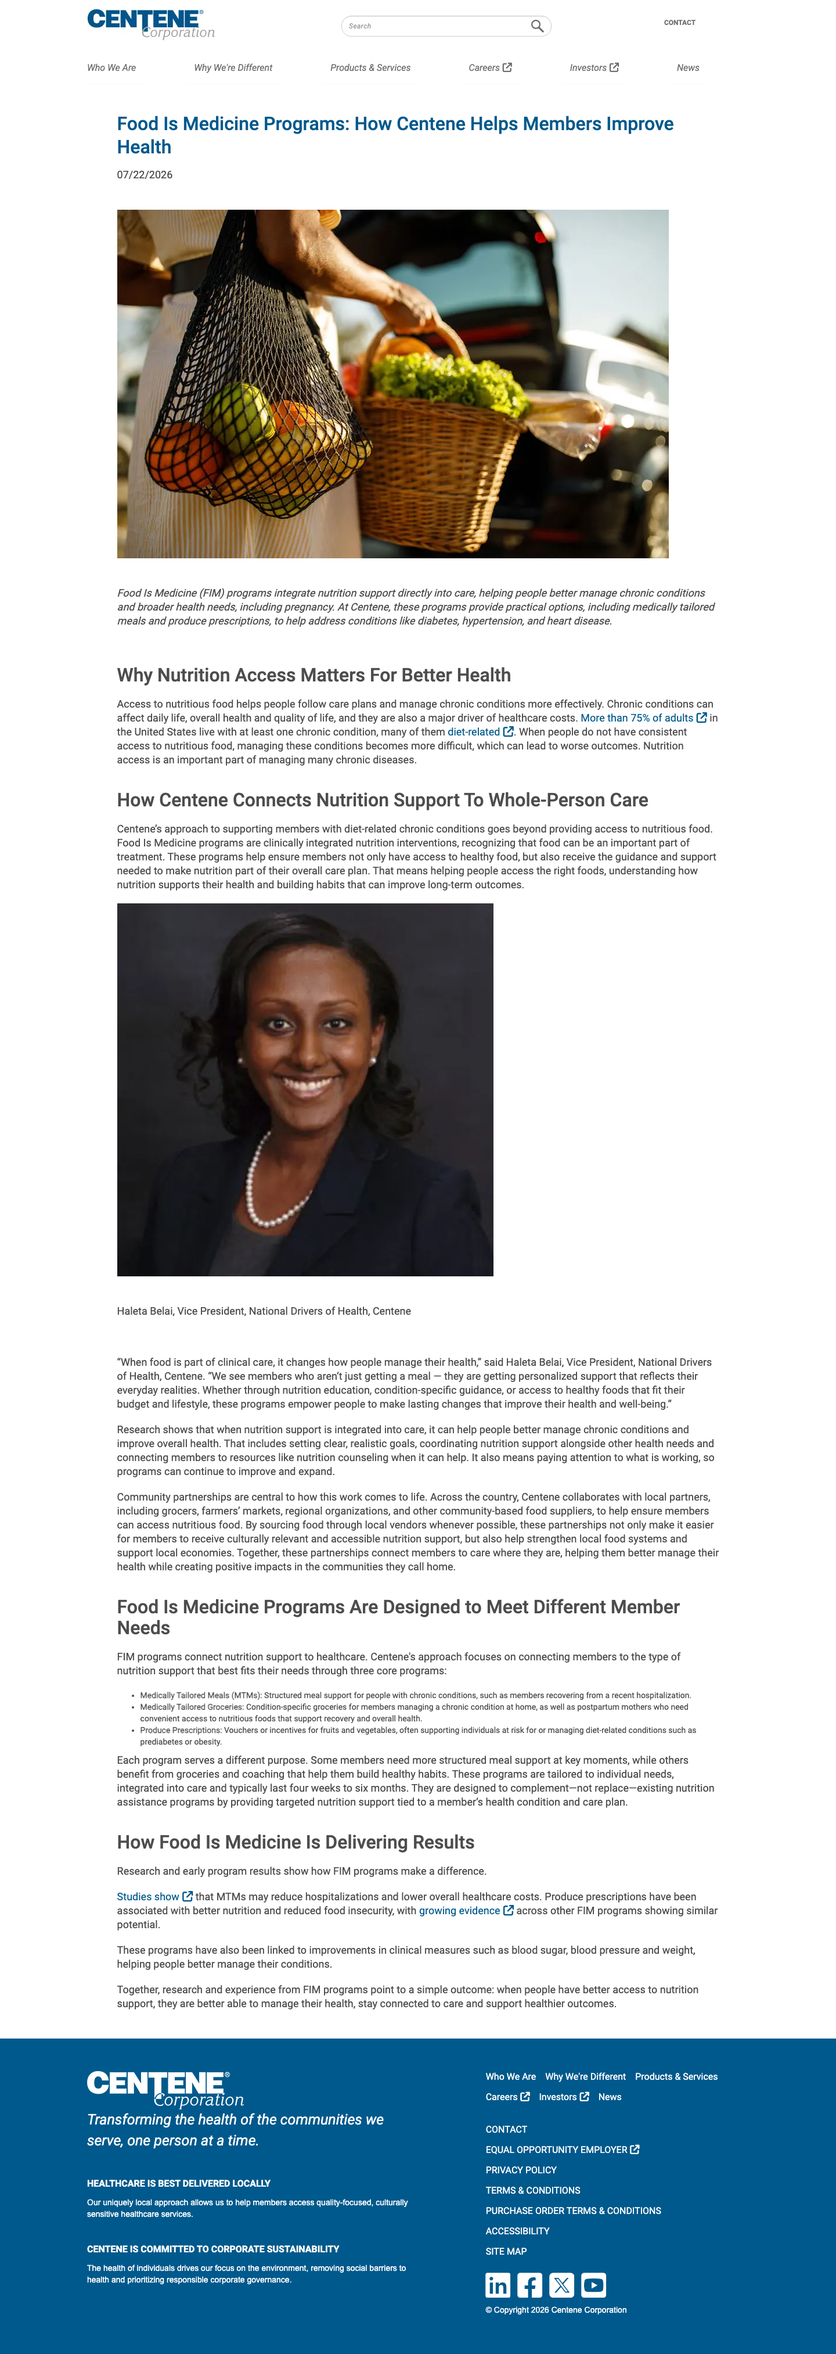
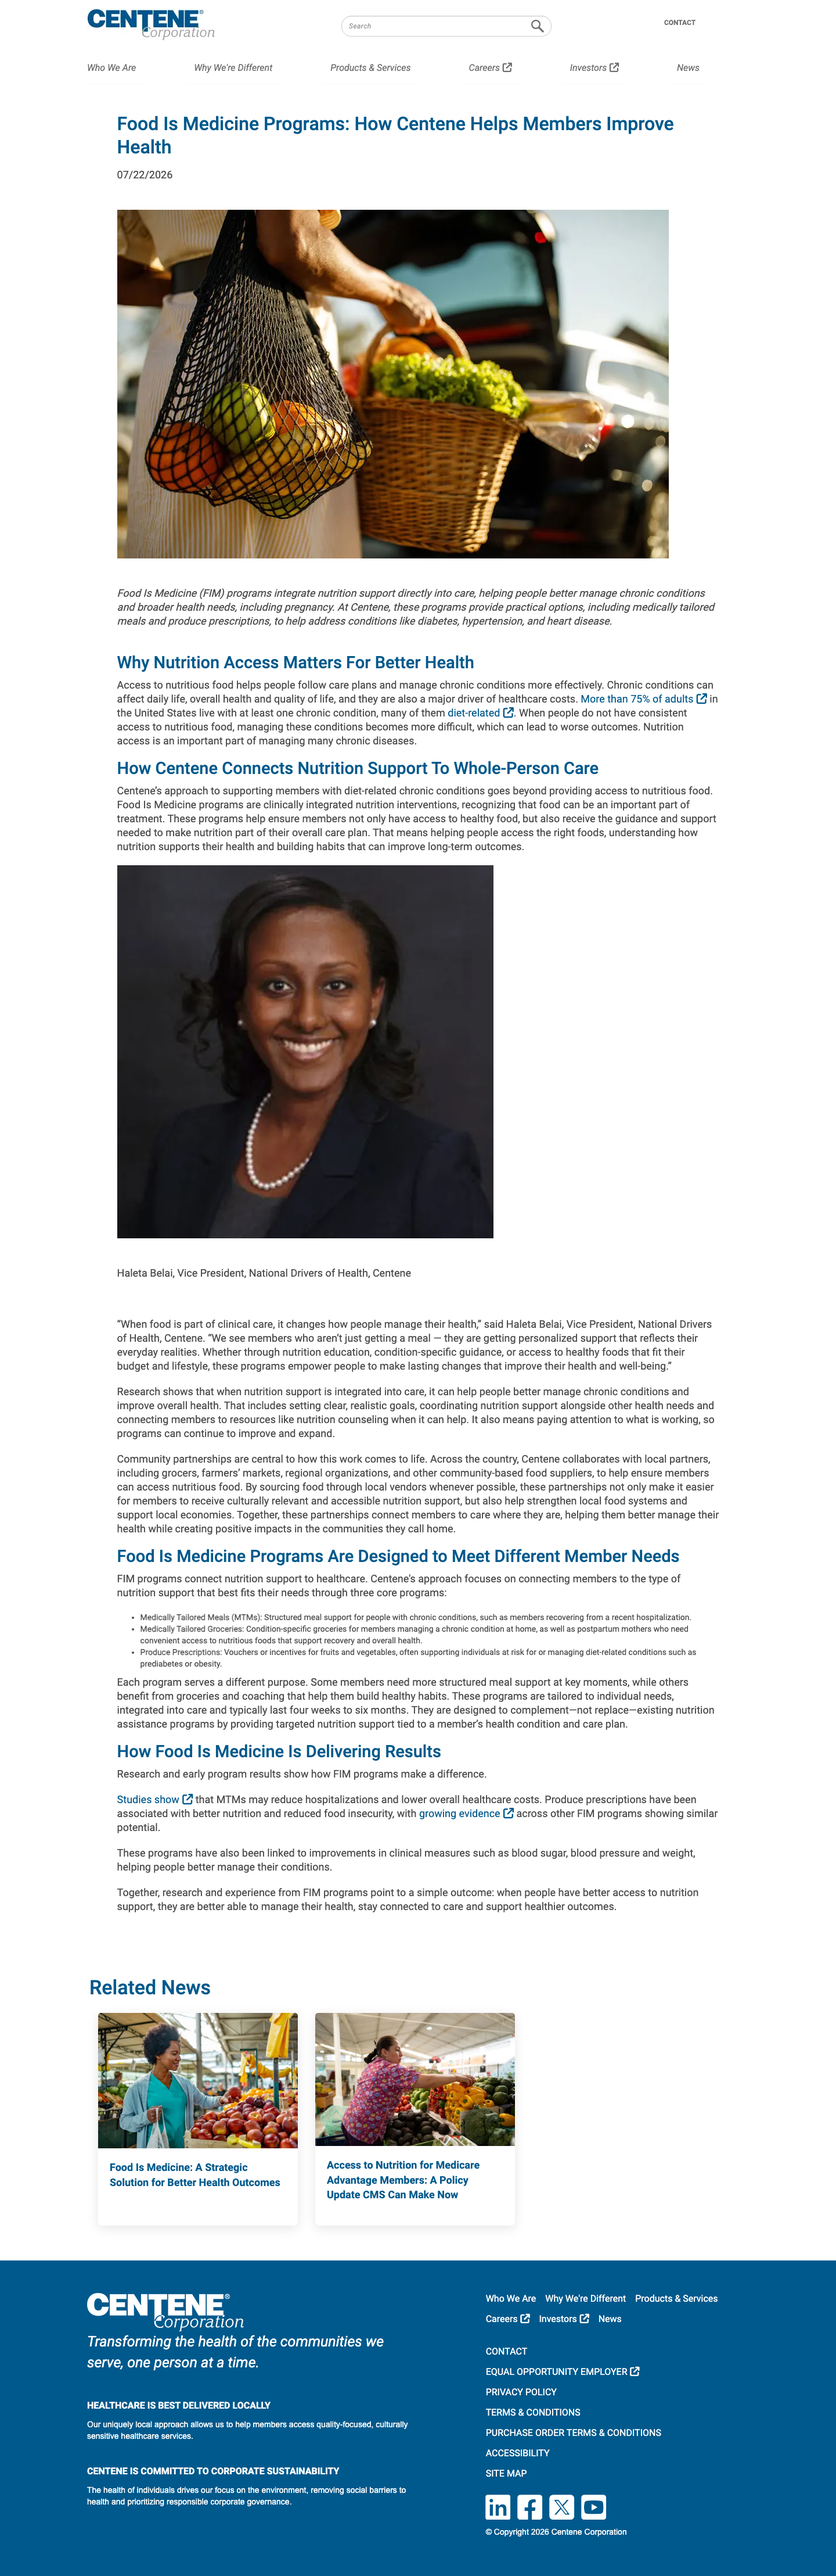
Portrait block for floated news portraits

Changed region(s): [[0.0, 0.0, 1.0, 0.9951], [0.8125, 0.0, 0.8438, 0.0311]]

diff --git a/content/news/food-is-medicine-centene-improves-care.html b/content/news/food-is-medicine-centene-improves-care.html
@@ -21,7 +21,7 @@
 <p>Access to nutritious food helps people follow care plans and manage chronic conditions more effectively. Chronic conditions can affect daily life, overall health and quality of life, and they are also a major driver of healthcare costs. <a href="https://www.cdc.gov/pcd/issues/2025/24_0539.htm">More than 75% of adults</a> in the United States live with at least one chronic condition, many of them <a href="https://www.cdc.gov/pcd/issues/2025/24_0539.htm">diet-related</a>. When people do not have consistent access to nutritious food, managing these conditions becomes more difficult, which can lead to worse outcomes. Nutrition access is an important part of managing many chronic diseases.</p>
 <h2>How Centene Connects Nutrition Support To Whole-Person Care</h2>
 <p>Centene’s approach to supporting members with diet-related chronic conditions goes beyond providing access to nutritious food. Food Is Medicine programs are clinically integrated nutrition interventions, recognizing that food can be an important part of treatment. These programs help ensure members not only have access to healthy food, but also receive the guidance and support needed to make nutrition part of their overall care plan. That means helping people access the right foods, understanding how nutrition supports their health and building habits that can improve long-term outcomes.</p>
-<p><em><img src="https://content.da.live/paolomoz/centene/media/centene/haleta-belai-square.jpg" alt="Haleta Belai"/></em></p>
+<div class="portrait"><div><div><img src="https://content.da.live/paolomoz/centene/media/centene/haleta-belai-square.jpg" alt="Haleta Belai"/></div></div></div>
 Haleta Belai, Vice President, National Drivers of Health, Centene
 <p><code>&nbsp;</code></p>
 <p>“When food is part of clinical care, it changes how people manage their health,” said Haleta Belai, Vice President, National Drivers of Health, Centene. “We see members who aren’t just getting a meal — they are getting personalized support that reflects their everyday realities. Whether through nutrition education, condition-specific guidance, or access to healthy foods that fit their budget and lifestyle, these programs empower people to make lasting changes that improve their health and well-being.”</p>

diff --git a/content/news/policy-recommendation-cms-nutrition-access-medicare-members.html b/content/news/policy-recommendation-cms-nutrition-access-medicare-members.html
@@ -16,10 +16,10 @@
 <h1>Access to Nutrition for Medicare Advantage Members: A Policy Update CMS Can Make Now</h1>
 <p>05/11/2026</p>
 <p><img src="https://content.da.live/paolomoz/centene/media/centene/woman-selecting-produce-farmers-market.jpg" alt=""></p>
-<strong><em>About the Authors</em></strong><p><em><img src="https://content.da.live/paolomoz/centene/media/centene/alice-chen-sq.jpg" alt="Alice Chen headshot"/></em></p>
+<strong><em>About the Authors</em></strong><div class="portrait"><div><div><img src="https://content.da.live/paolomoz/centene/media/centene/alice-chen-sq.jpg" alt="Alice Chen headshot"/></div></div></div>
 <em>Alice Hm Chen, MD, MPH, serves as Chief Health Officer of Centene Corporation. Dr. Chen is responsible for Centene’s strategies, policies and programs in support of improving population health for Centene’s members.</em>
 &nbsp;<p><code>&nbsp;</code></p>
-<p><em><img src="https://content.da.live/paolomoz/centene/media/centene/michael-carson-sq.jpg" alt="Michael Carson headshot"/></em></p>
+<div class="portrait"><div><div><img src="https://content.da.live/paolomoz/centene/media/centene/michael-carson-sq.jpg" alt="Michael Carson headshot"/></div></div></div>
 <em>Michael A. Carson serves as Group President, Medicare and Specialty of Centene Corporation, with oversight of the company’s Medicare Advantage, Medicare Part D, Duals, and Specialty businesses.</em>
 <p><em>By Alice Hm Chen, Chief Health Officer of Centene and Michael A. Carson, Group President of Medicare and Specialty Business of Centene</em></p>
 <p>As the nation’s largest managed care company focused on underserved populations, we know evidence-based drivers of health interventions are key to better outcomes. Nutrition is a powerful tool — especially for our Medicare Advantage (MA) members, most of whom live with one or more chronic conditions. Robust evidence shows nutrition can improve outcomes for this population, yet it remains extremely challenging to offer nutritious food as a clinical intervention.</p>

diff --git a/content/news/centene-nurse-advice-line-24-7-support-nurses-week.html b/content/news/centene-nurse-advice-line-24-7-support-nurses-week.html
@@ -16,10 +16,10 @@
 <h1>Centene&#x27;s Nurse Advice Line: 24/7 Nurse‑Led Support</h1>
 <p>05/06/2026</p>
 <p><img src="https://content.da.live/paolomoz/centene/media/centene/woman-desktop-small-hirez.jpg" alt=""></p>
-<p><em><img src="https://content.da.live/paolomoz/centene/media/centene/constance-wagner.jpg" alt="Constance Wagner, MHA, BSN, RN-BC, Telehealth Nurse, NAL"/></em></p>
+<div class="portrait"><div><div><img src="https://content.da.live/paolomoz/centene/media/centene/constance-wagner.jpg" alt="Constance Wagner, MHA, BSN, RN-BC, Telehealth Nurse, NAL"/></div></div></div>
 <em>Constance Wagner, MHA, BSN, RN-BC, Telehealth Nurse, NAL</em>
 &nbsp;<p><code>&nbsp;</code></p>
-<p><em><img src="https://content.da.live/paolomoz/centene/media/centene/debra-cavazos.jpg" alt="Debra Cavazos, BSN, RN-BC, Senior Telehealth Registered Nurse, NAL"/></em></p>
+<div class="portrait"><div><div><img src="https://content.da.live/paolomoz/centene/media/centene/debra-cavazos.jpg" alt="Debra Cavazos, BSN, RN-BC, Senior Telehealth Registered Nurse, NAL"/></div></div></div>
 <em>Debra Cavazos, BSN, RN-BC, Senior Telehealth Registered Nurse, NAL</em>
 <p><em>During National Nurses Week, we’re recognizing the nurses who make the difference on the frontlines with our members every day. Those working in our Nurse Advice Line program are a great example of this. They provide trusted guidance when members need help making care decisions.</em></p>
 <p>When provider offices are closed or symptoms worsen unexpectedly, it can be hard to know where to turn. Questions about urgency, access, or cost can make choosing the right next step feel overwhelming and sometimes lead people to seek emergency care when another option may be more appropriate. <strong>Centene’s Nurse Advice Line (NAL) offers members 24/7 nurse‑led guidance to talk through symptoms, understand care options, and make informed decisions with confidence.</strong></p>

diff --git a/content/news/centene-foster-care-centers-of-excellence-support-children.html b/content/news/centene-foster-care-centers-of-excellence-support-children.html
@@ -16,7 +16,7 @@
 <h1>How Centene is Putting Kids First with a Better Model for Foster Care Health</h1>
 <p>06/10/2026</p>
 <p><img src="https://content.da.live/paolomoz/centene/media/centene/care-manager-with-child-toys-assessment.jpg" alt=""></p>
-<p><em><img alt="Cheryl Fisher" src="https://content.da.live/paolomoz/centene/media/centene/cheryl.jpg"/></em></p>
+<div class="portrait"><div><div><img alt="Cheryl Fisher" src="https://content.da.live/paolomoz/centene/media/centene/cheryl.jpg"/></div></div></div>
 <em>Cheryl Fisher, Vice President of Business Development at Centene</em>
 &nbsp;<p><code>&nbsp;</code></p>
 <p>Children and youth in foster care often have health needs that look very different from those of other kids. Many come into care with gaps in medical support and a history of trauma, which can affect both physical and behavioral health. Helping them stay healthy takes more than a standard pediatric visit. It requires care that is coordinated, consistent, and built around the realities of <a href="/products-and-services/medicaid/foster-care">foster care</a>.</p>

diff --git a/content/news/what-is-ichra-flexible-healthcare-coverage.html b/content/news/what-is-ichra-flexible-healthcare-coverage.html
@@ -16,7 +16,7 @@
 <h1>Meeting Consumers Where They Are: What We’re Learning from ICHRA</h1>
 <p>07/15/2026</p>
 <p><img src="https://content.da.live/paolomoz/centene/media/centene/mom-on-laptop-child-nearby.jpg" alt=""></p>
-<p><em><img src="https://content.da.live/paolomoz/centene/media/centene/alan-silver-square.jpg" alt="Alan Silver"/></em></p>
+<div class="portrait"><div><div><img src="https://content.da.live/paolomoz/centene/media/centene/alan-silver-square.jpg" alt="Alan Silver"/></div></div></div>
 Alan Silver, President of ICHRA, Ambetter Health Solutions
 <p><code>&nbsp;</code></p>
 <p><em><strong>By Alan Silver, President of ICHRA, Ambetter Health Solutions</strong></em></p>

diff --git a/blocks/portrait/portrait.css b/blocks/portrait/portrait.css
@@ -1,0 +1,14 @@
+/* portrait — floated inline portrait; geometry lifted from the source news pages. */
+
+.portrait-wrapper {
+  float: right;
+  margin: 20px 0 20px 30px;
+  max-width: 220px;
+}
+
+.portrait img { max-width: 220px; height: auto; display: block; }
+.portrait p { margin: 0; line-height: 0; }
+
+@media (width <= 767px) {
+  .portrait-wrapper { float: none; margin: 20px auto; }
+}

diff --git a/blocks/portrait/portrait.js b/blocks/portrait/portrait.js
@@ -1,0 +1,8 @@
+/**
+ * portrait — floated inline portrait (source: float-right div + inline
+ * max-width on news pages). Single row: image cell (optional caption cell).
+ */
+export default async function decorate(block) {
+  const img = block.querySelector('picture img, img');
+  if (img) img.setAttribute('loading', 'lazy');
+}

diff --git a/stardust/scripts/import-sibling.py b/stardust/scripts/import-sibling.py
@@ -480,6 +480,10 @@ def build_page(page):
             page['_meta_extra'] = extra
         if desc_html: parts.append(desc_html)
         body_html = '\n'.join(parts)
+        # floated portraits become a portrait BLOCK (the pipeline unwraps <em>
+        # around pictures, so an inline vehicle cannot survive)
+        body_html = re.sub(r'<p><em>(<img[^>]*>)</em></p>',
+                           r'<div class="portrait"><div><div>\1</div></div></div>', body_html)
 
         sections.append(f'''    <div>
       <div class="section-metadata">
